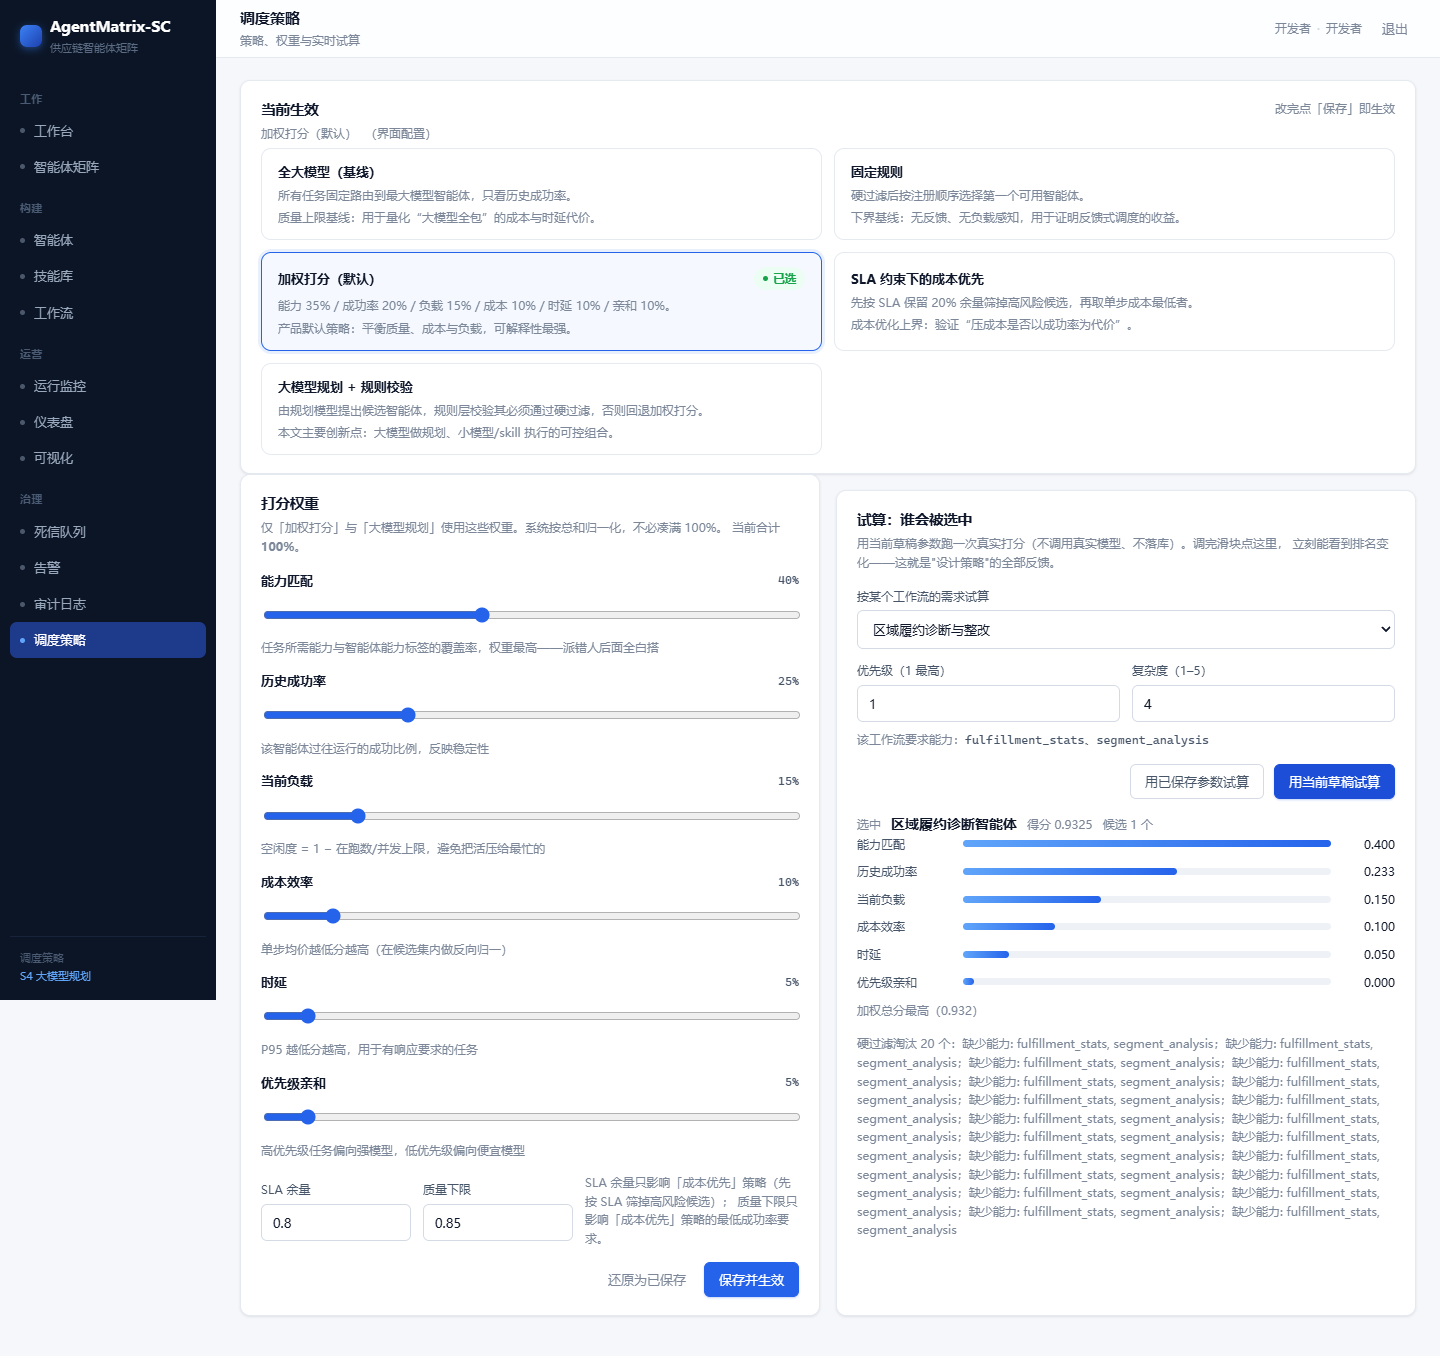
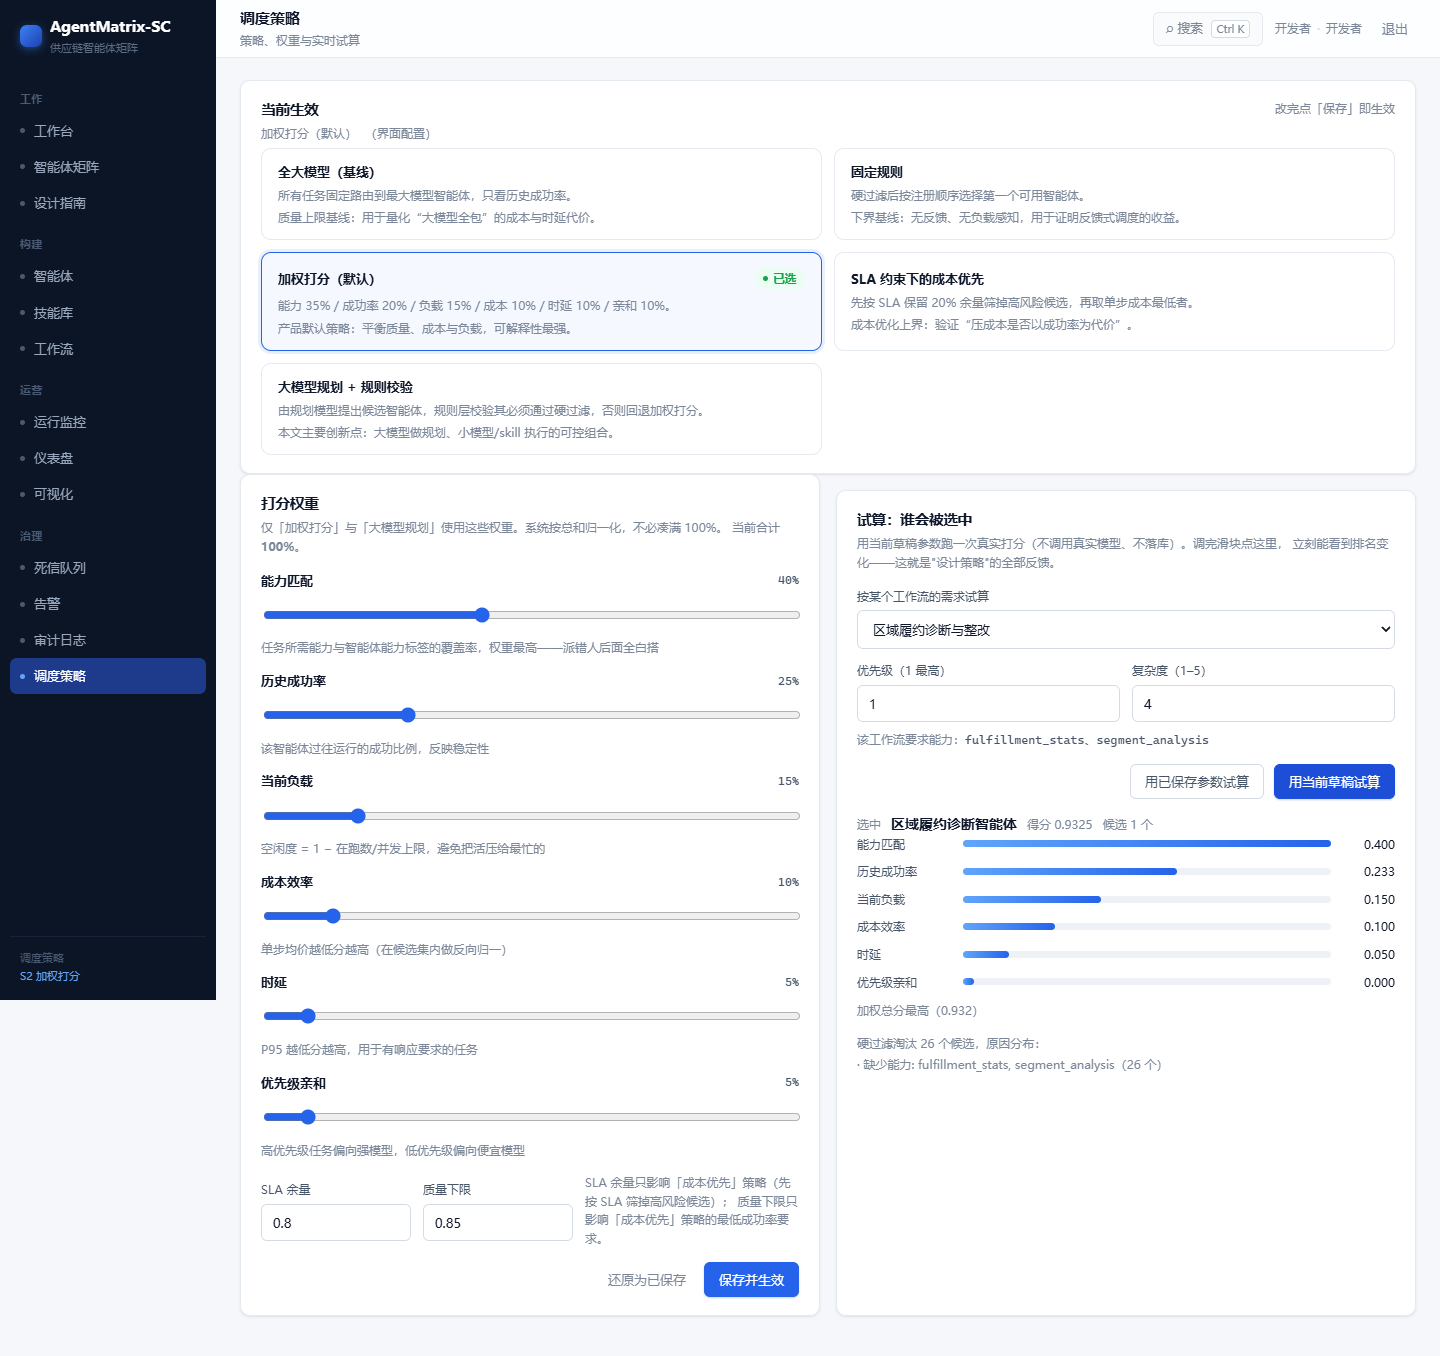
fix(dispatch-settings): 修复 hooks 顺序导致的白屏 + 新增路由冒烟测试
问题：调度策略页打不开。

根因：DispatchSettings 里「淘汰原因归并」的 useMemo 写在了
if (!settings || !draft) return ... 之后。首屏走提前 return（hook 少一个），
数据到达后再执行该 useMemo，React 判定「Rendered more hooks than during
the previous render」并抛错，整页白屏。页面接口本身 200，所以只测接口发现不了。

修复：把 useMemo 移到所有提前 return 之前，并在注释里写明原因，避免再犯。

防回归：新增 tests/e2e/routes.mjs
- 逐个打开 18 个页面（含智能体/技能/运行/任务详情与工作流设计器），
  断言没有 pageerror、主内容非空、出现预期关键词
- 详情页的真实编号从 API 动态取，不硬编码
- 这类「打开就崩」的问题从此挡在提交前；业务 E2E 只覆盖主线，覆盖不到每个页面

验证
- node tests/e2e/routes.mjs：18/18 通过（修复前该页 ❌ 白屏）
- node tests/e2e/e2e.mjs：17 步通过
- 重截 41-dispatch-settings.png（现在能正常渲染，淘汰原因已按原因归并）
- HANDOFF 增加约束：新页面/改页面后必须跑路由冒烟；README 同步

diff --git a/apps/web/src/pages/DispatchSettings.tsx b/apps/web/src/pages/DispatchSettings.tsx
@@ -57,6 +57,18 @@ export function DispatchSettings() {
     return wf?.required_capabilities ?? [];
   }, [workflowCode, workflows]);
 
+  // 淘汰原因按原因归并：20 个候选可能都是"缺少同一组能力"，逐条列会把页面刷满。
+  // 注意：这个 useMemo 必须写在下面的提前 return **之前**——
+  // 放在 return 之后会导致"数据到达后 hook 数量变多"，React 直接抛
+  // "Rendered more hooks than during the previous render"，整页白屏。
+  const rejectedGroups = useMemo(() => {
+    const groups = new Map<string, number>();
+    for (const item of preview?.rejected ?? []) {
+      groups.set(item.reason, (groups.get(item.reason) ?? 0) + 1);
+    }
+    return [...groups.entries()].sort((a, b) => b[1] - a[1]);
+  }, [preview]);
+
   function patchWeight(code: string, raw: number) {
     if (!draft) return;
     setDraft({ ...draft, weights: { ...draft.weights, [code]: raw } });
@@ -106,15 +118,6 @@ export function DispatchSettings() {
     ...(preview?.factors ?? []).map((f) => f.contribution),
     0.0001,
   );
-
-  // 淘汰原因按原因归并：20 个候选可能都是"缺少同一组能力"，逐条列会把页面刷满
-  const rejectedGroups = useMemo(() => {
-    const groups = new Map<string, number>();
-    for (const item of preview?.rejected ?? []) {
-      groups.set(item.reason, (groups.get(item.reason) ?? 0) + 1);
-    }
-    return [...groups.entries()].sort((a, b) => b[1] - a[1]);
-  }, [preview]);
 
   return (
     <>

diff --git a/README.md b/README.md
@@ -27,6 +27,7 @@
 | 工作流设计器（编辑 + 校验 + 存新版本） | ✅ 已实现 | 加节点/连线/删除/拖拽定位、服务端校验、保存为不可变新版本 |
 | 版本对比 | ✅ 已实现 | `GET /workflows/{code}/diff`，节点增删/字段变更/连线增删，忽略布局坐标 |
 | 浏览器端到端测试 | ✅ 通过 | `dev e2e` —— 真实 UI 跑完登录到审批、审计、建技能、在线测试、图表导出、全局搜索、确认弹窗（17 步断言） |
+| 路由冒烟 | ✅ 通过 | `node tests/e2e/routes.mjs`：18 个页面逐页断言「无运行时错误 + 主内容非空」 |
 | 技能库（界面） | ✅ 已实现 | `/skills`：新建（内置/HTTP）、按 Schema 试运行、版本、引用检查、故障注入 |
 | 智能体管理（界面） | ✅ 已实现 | `/agents`：新建、绑技能、在线测试（工具轨迹 + Token/成本）、草稿/发布、版本对比 |
 | 审计日志（只追加） | ✅ 已实现 | `audit_logs` + 触发器禁改禁删；`scripts/check-audit.ps1` 18/18 |
